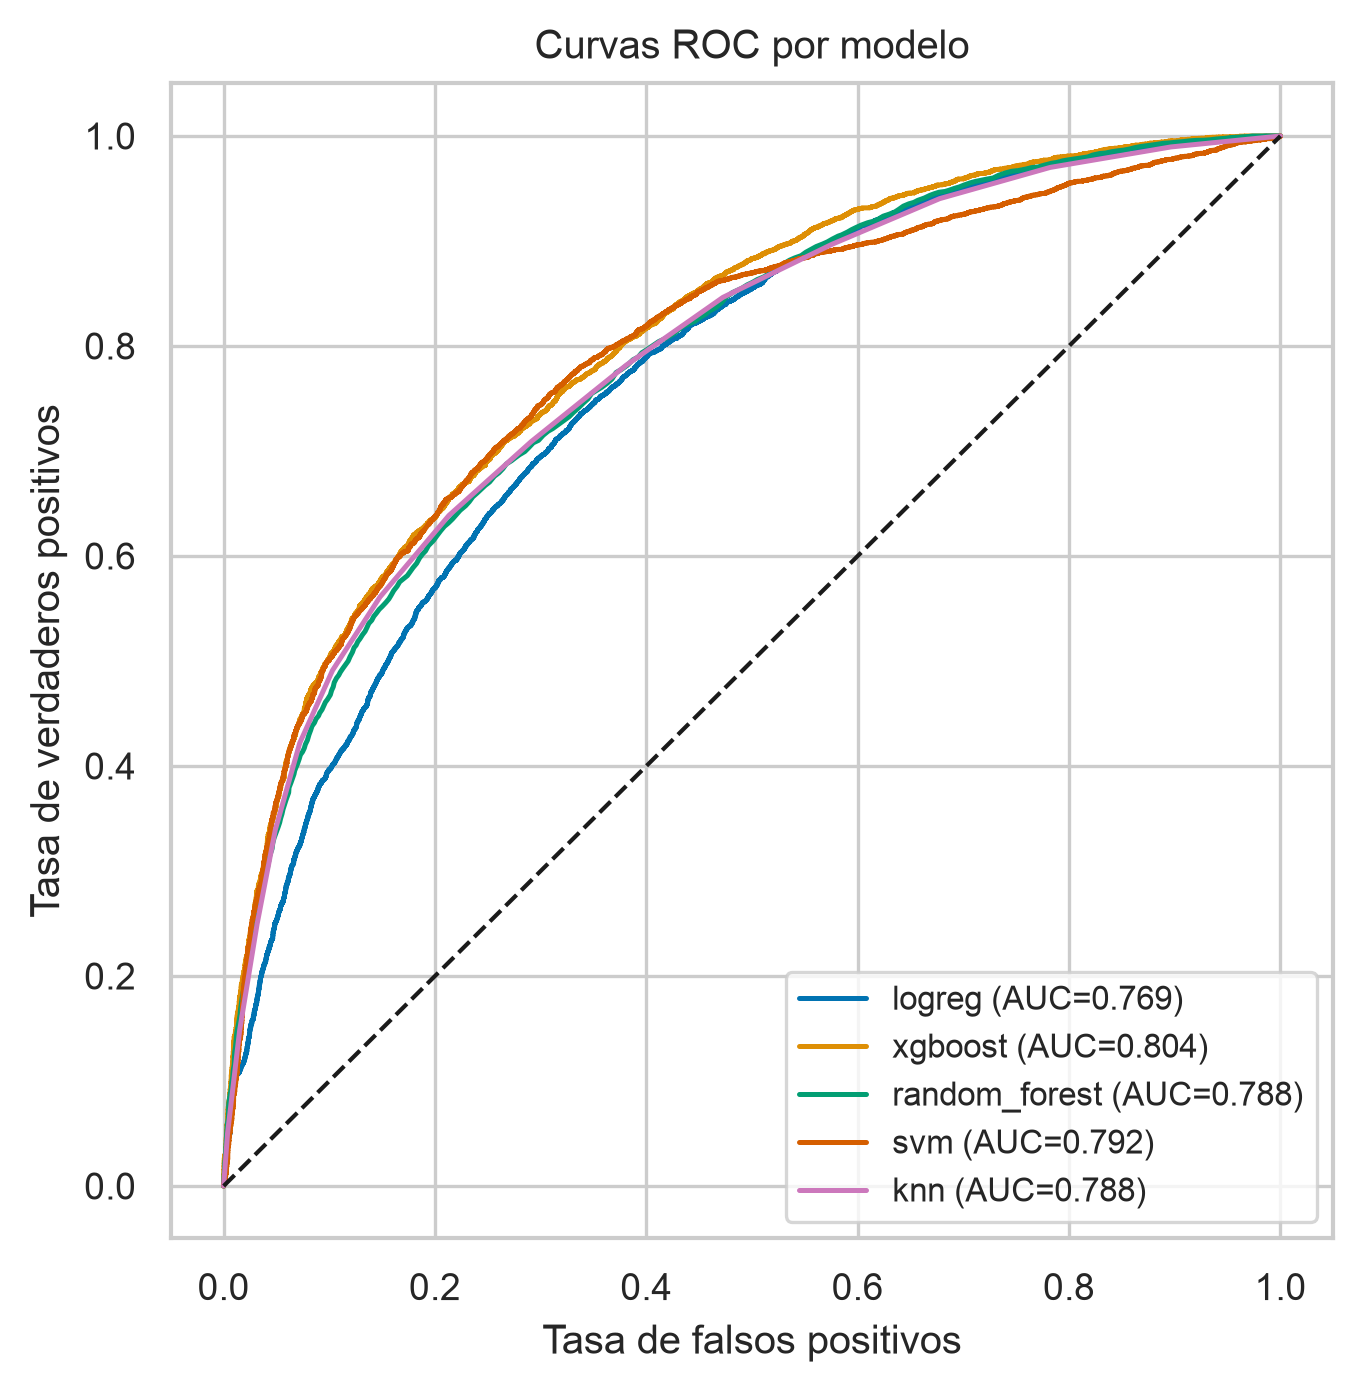
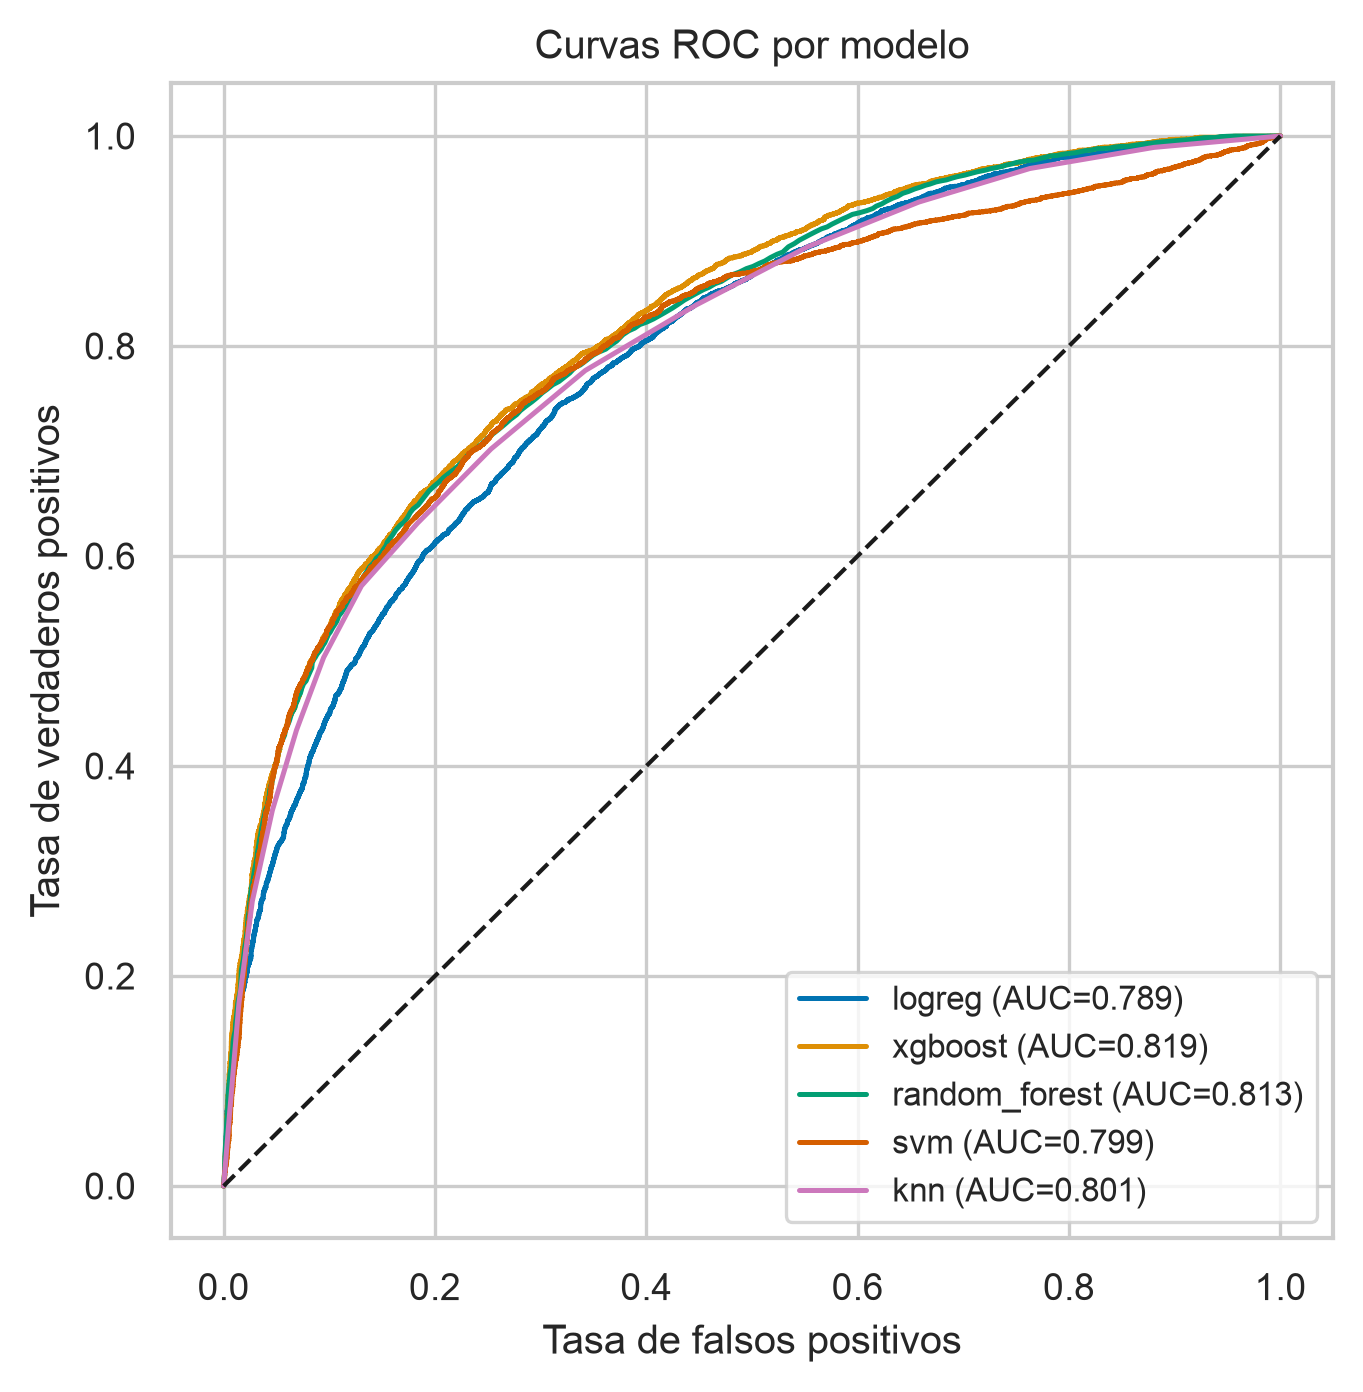
exp: regenera e0_baseline (CV) con features de nivel frase
xgboost AUC 0.804->0.819, RF 0.788->0.813, logreg 0.769->0.789 en CV
GroupKFold. Baseline de una feature (containment 0.761) intacto como
referencia inferior.

diff --git a/outputs/reports/e0_baseline.md b/outputs/reports/e0_baseline.md
@@ -6,11 +6,11 @@ Validación GroupKFold por `source`. Umbral por índice de Youden.
 
 | modelo                      |   AUC-ROC | IC95%          |   AUC-PR |    F1 |   precision |   recall |   bal_acc |   Brier |     ECE |
 |:----------------------------|----------:|:---------------|---------:|------:|------------:|---------:|----------:|--------:|--------:|
-| logreg                      |     0.769 | [0.762, 0.776] |    0.713 | 0.682 |       0.636 |    0.736 |     0.699 |   0.194 |   0.018 |
-| xgboost                     |     0.804 | [0.798, 0.811] |    0.77  | 0.695 |       0.682 |    0.709 |     0.722 |   0.178 |   0.013 |
-| random_forest               |     0.788 | [0.781, 0.796] |    0.751 | 0.673 |       0.691 |    0.656 |     0.71  |   0.186 |   0.034 |
-| svm                         |     0.792 | [0.785, 0.799] |    0.754 | 0.695 |       0.687 |    0.703 |     0.723 |   0.185 |   0.029 |
-| knn                         |     0.788 | [0.781, 0.795] |    0.737 | 0.671 |       0.706 |    0.639 |     0.713 |   0.186 |   0.038 |
+| logreg                      |     0.789 | [0.782, 0.796] |    0.749 | 0.695 |       0.653 |    0.744 |     0.713 |   0.186 |   0.021 |
+| xgboost                     |     0.819 | [0.812, 0.826] |    0.788 | 0.697 |       0.739 |    0.659 |     0.736 |   0.171 |   0.006 |
+| random_forest               |     0.813 | [0.806, 0.820] |    0.782 | 0.695 |       0.732 |    0.662 |     0.734 |   0.174 |   0.018 |
+| svm                         |     0.799 | [0.792, 0.806] |    0.769 | 0.702 |       0.707 |    0.698 |     0.733 |   0.18  |   0.028 |
+| knn                         |     0.801 | [0.795, 0.809] |    0.755 | 0.696 |       0.69  |    0.702 |     0.724 |   0.18  |   0.031 |
 | baseline: solo containment  |     0.761 | [0.753, 0.768] |    0.662 | 0.667 |       0.669 |    0.664 |     0.7   |   0.199 |   0.039 |
 | baseline: clase mayoritaria |     0.5   | --             |    0.445 | 0     |       0     |    0     |     0.5   |   0.247 | nan     |
 